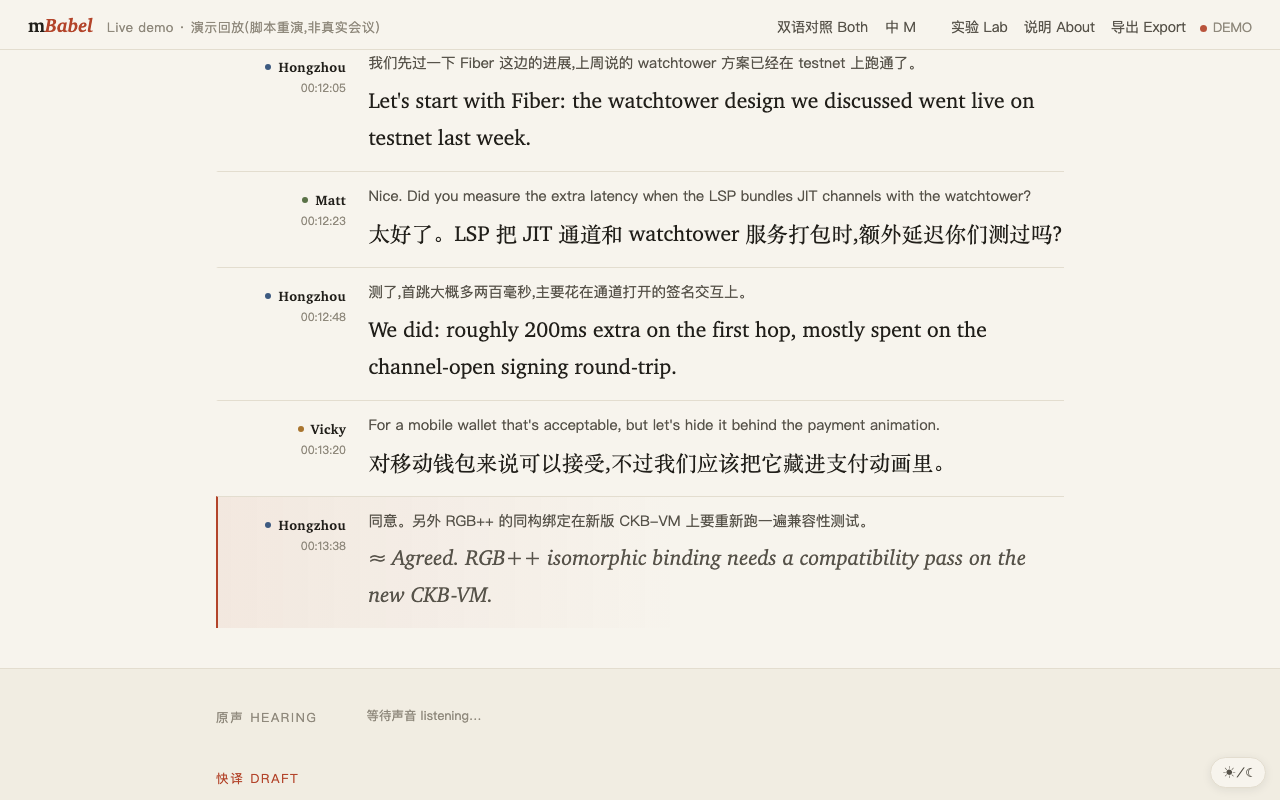
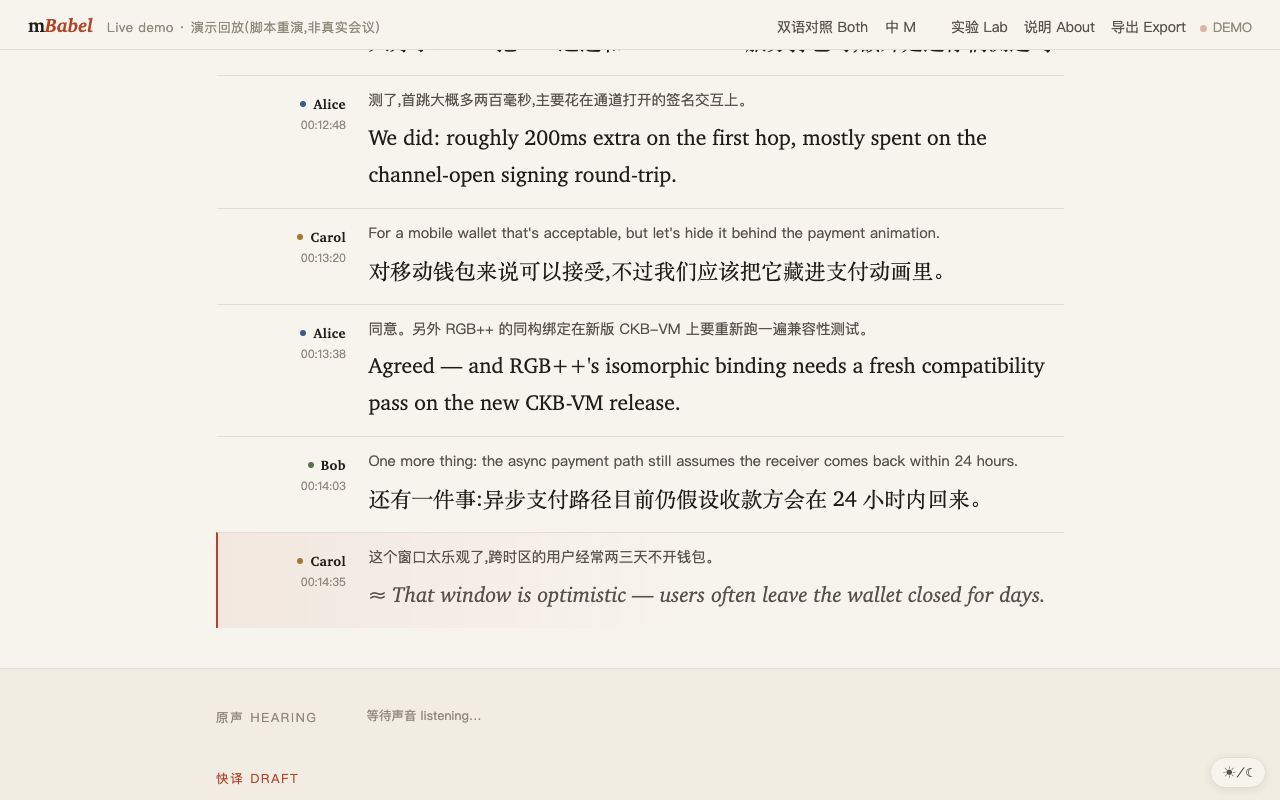
Demo: rename speakers to Alice/Bob/Carol; refresh screenshot

Changed region(s): [[0.2188, 0.25, 0.8438, 0.75], [0.2188, 0.0625, 0.8125, 0.25]]

diff --git a/docs/index.html b/docs/index.html
@@ -601,7 +601,7 @@ function connect() {
 // visitors can watch the real pipeline rhythm (hearing -> draft ->
 // commit -> promoted draft -> context-refined) and click every control.
 setLive(''); liveDot.textContent = 'DEMO';
-sessionNames['0'] = 'Hongzhou'; sessionNames['1'] = 'Matt'; sessionNames['2'] = 'Vicky';
+sessionNames['0'] = 'Alice'; sessionNames['1'] = 'Bob'; sessionNames['2'] = 'Carol';
 const DEMO = [
  {sp:'0', lang:'zh',
   src:'我们先过一下 Fiber 这边的进展,上周说的 watchtower 方案已经在 testnet 上跑通了。',
